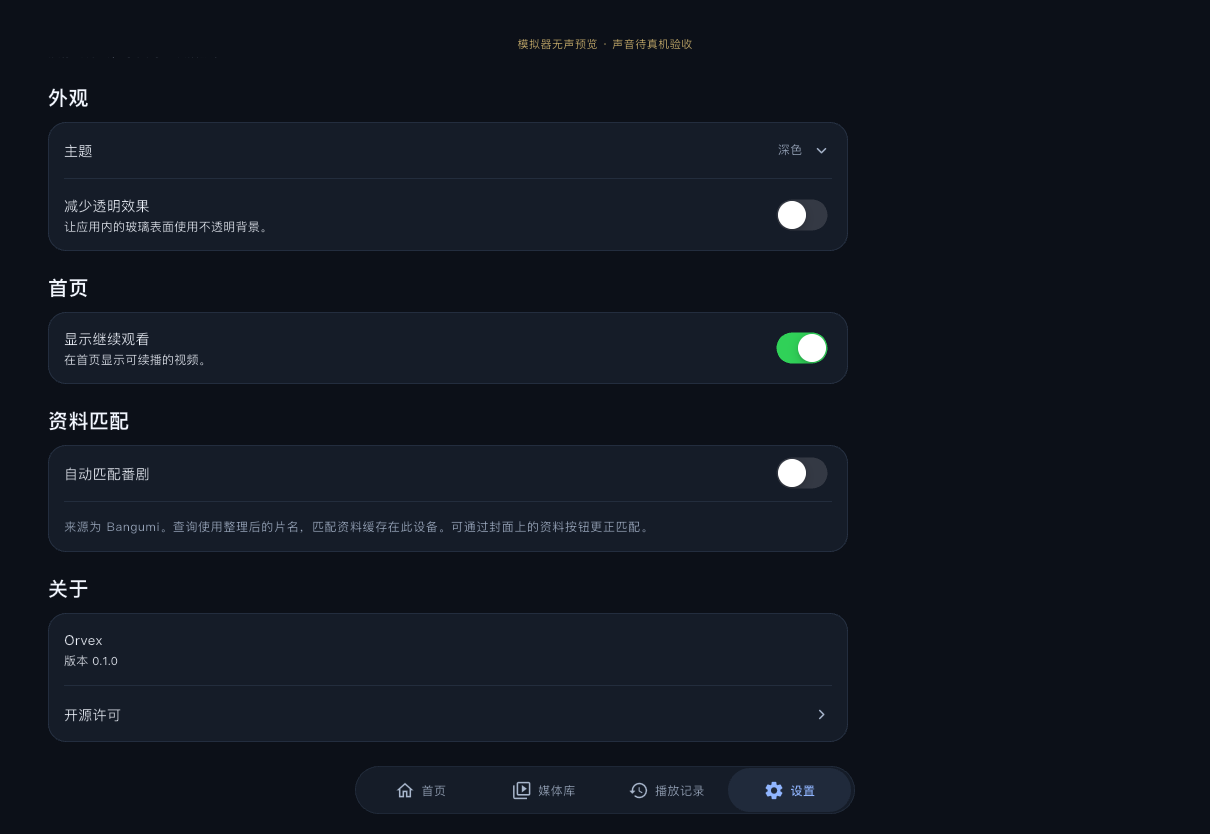
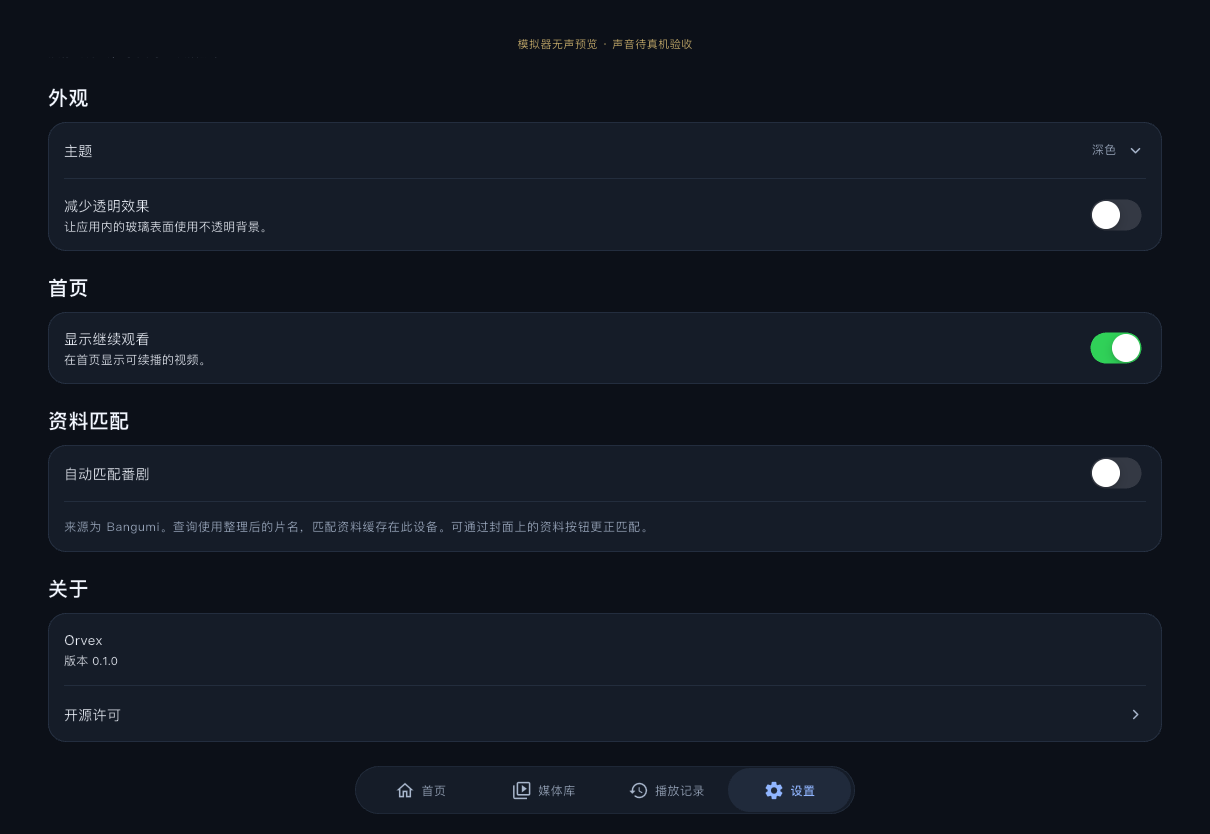
fix: restore full-width settings layout

diff --git a/integration_test/home_polish_test.dart b/integration_test/home_polish_test.dart
@@ -824,8 +824,10 @@ void main() {
         );
         final settingsFormBounds = tester.getRect(themePicker);
         expect(settingsFormBounds.left, closeTo(librarySearchBounds.left, .01));
-        expect(settingsFormBounds.width, closeTo(800, .01));
-        expect(settingsFormBounds.right, lessThan(librarySearchBounds.right));
+        expect(
+          settingsFormBounds.right,
+          closeTo(librarySearchBounds.right, .01),
+        );
         final settingsCards = find.descendant(
           of: settingsPage,
           matching: find.byType(GlassSurface),

diff --git a/lib/features/library/presentation/library_views.dart b/lib/features/library/presentation/library_views.dart
@@ -95,13 +95,7 @@ class LibraryViews extends StatelessWidget {
             children: [
               _header(context),
               const SizedBox(height: OrvexMetrics.section),
-              Align(
-                alignment: AlignmentDirectional.topStart,
-                child: ConstrainedBox(
-                  constraints: const BoxConstraints(maxWidth: 800),
-                  child: _settings(context),
-                ),
-              ),
+              _settings(context),
             ],
           ),
         );

diff --git a/docs/verification/settings-first/README.md b/docs/verification/settings-first/README.md
@@ -1,6 +1,6 @@
 # 设置页整理与验收
 
-页头和表单共用媒体库的 `libraryBrowseInset`。四个分组在同一个左对齐表单中，最大宽度为 800 个 Flutter 逻辑像素。窄窗使用页边距之间的实际可用宽度。页底继续采用底部播放卡和导航测量后的留位。
+页头和表单共用媒体库的 `libraryBrowseInset`。四个分组填满两侧页边距之间的可用宽度，与媒体库的左右边界对齐。页底继续采用底部播放卡和导航测量后的留位。
 
 | 设置 | 存储与实际作用 |
 | --- | --- |
@@ -14,7 +14,7 @@
 
 `./scripts/check` 通过，包含格式、静态分析和 171 项测试。主题保存后重新初始化偏好控制器，核对三种选择的读回结果；组件测试模拟系统外观与 iOS 辅助功能变化，并用替身验证 Bangumi 自动查询。正式版已覆盖安装并启动于 iPad Pro 2022。真机的应用重启、系统辅助功能切换和用户片库操作留待人工验收。
 
-iPad 模拟器集成测试通过。核对横屏页头位置、四张卡片的统一宽度和窄窗边距。横屏仅有导航、窄窗同时有导航和播放卡时，开源许可整行可见并能打开。窄窗以 2 倍字号验证 Bangumi 说明可换行、开源许可仍可操作。集成测试使用无声模拟器素材。
+iPad 模拟器集成测试通过。核对横屏四张卡片与媒体库的左右边界对齐，以及窄窗边距。横屏仅有导航、窄窗同时有导航和播放卡时，开源许可整行可见并能打开。窄窗以 2 倍字号验证 Bangumi 说明可换行、开源许可仍可操作。集成测试使用无声模拟器素材。
 
 | iPad 模拟器 | 截图 |
 | --- | --- |
